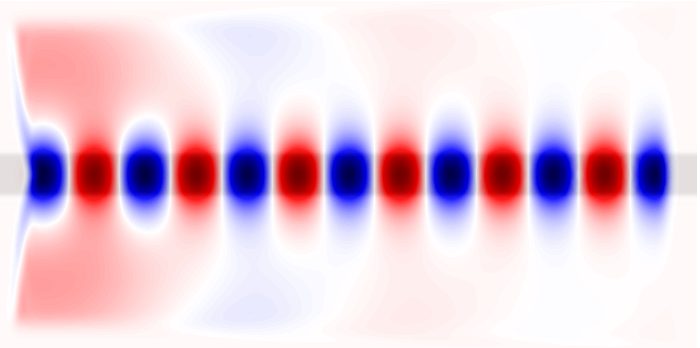
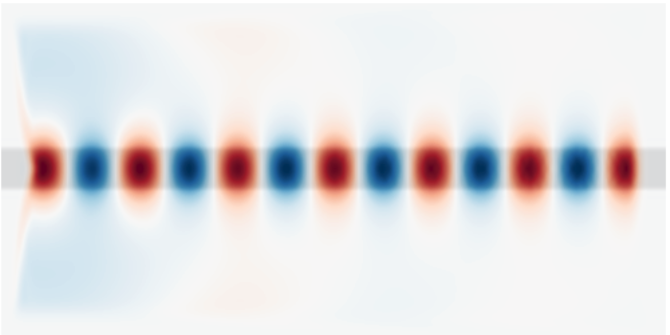
Replace h5utils with python libraries (#163)
* Animation with matplotlib

* Use RdBu colormap

* Update python tutorial image to RdBu

* Add vmin,vmax and RdBu colormap to animation

* Add get_array example

* Crop wvg-bent-ez-tslice

diff --git a/doc/docs/Python_Tutorials/Basics.md b/doc/docs/Python_Tutorials/Basics.md
@@ -108,9 +108,9 @@ We will first create an image of the dielectric function $\varepsilon$. This inv
 ```py
 eps_h5file = h5py.File('eps-000000.00.h5','r')
 eps_data = np.array(eps_h5file['eps'])
-plt.figure(dpi=100);
-plt.imshow(eps_data.transpose(), interpolation='spline36', cmap='binary');
-plt.axis('off');
+plt.figure(dpi=100)
+plt.imshow(eps_data.transpose(), interpolation='spline36', cmap='binary')
+plt.axis('off')
 plt.show()
 ```
 
@@ -119,10 +119,10 @@ Next we create an image of the scalar electric field $E_z$ by overlaying the die
 ```py
 ez_h5file = h5py.File('ez-000200.00.h5','r')
 ez_data = np.array(ez_h5file['ez'])
-plt.figure(dpi=100);
-plt.imshow(eps_data.transpose(), interpolation='spline36', cmap='binary');
-plt.imshow(ez_data.transpose(), interpolation='spline36', cmap='seismic', alpha=0.9);
-plt.axis('off');
+plt.figure(dpi=100)
+plt.imshow(eps_data.transpose(), interpolation='spline36', cmap='binary')
+plt.imshow(ez_data.transpose(), interpolation='spline36', cmap='RdBu', alpha=0.9)
+plt.axis('off')
 plt.show()
 ```
 
@@ -182,21 +182,18 @@ sim.run(mp.at_beginning(mp.output_epsilon),
 Here, `"ez"` determines the name of the output file, which will be called `ez.h5` if you are running interactively or will be prefixed with the name of the file name for a Python file (e.g. `tutorial-ez.h5` for `tutorial.py`). If we run `h5ls` on this file (a standard utility, included with HDF5, that lists the contents of the HDF5 file), we get:
 
 ```sh
-unix% h5ls ez.h5 
-ez                       Dataset {161, 161, 330/Inf}
+unix% h5ls ez.h5
+ez                       Dataset {161, 161, 330/Inf}
 ```
 
 That is, the file contains a 162×162×330 array, where the last dimension is time. This is rather a large file, 69MB; later, we'll see ways to reduce this size if we only want images. Now, we have a number of choices of how to output the fields. To output a single time slice, we can use the same `h5topng` command as before, but with an additional `-t` option to specify the time index: e.g. `h5topng -t 229` will output the last time slice, similar to before. Instead, let's create an animation of the fields as a function of time. First, we have to create images for *all* of the time slices:
 
 ```sh
-unix% h5topng -t 0:329 -R -Zc dkbluered -a yarg -A eps-000000.00.h5 ez.h5
+unix% h5topng -t 0:329 -R -Zc dkbluered -a yarg -A eps-000000.00.h5 ez.h5
 ```
 
 This is similar to the command before with two new options: `-t 0:329` outputs images for *all* time indices from 0 to 329, i.e. all of the times, and the the `-R` flag tells h5topng to use a consistent color scale for every image (instead of scaling each image independently). Then, we have to convert these images into an animation in some format. For this, we'll use the free [ImageMagick](https://en.wikipedia.org/wiki/ImageMagick) `convert` program (although there is other software that will do the trick as well).
 
-```sh
-unix% convert ez.t*.png ez.gif
-```
 Here, we are using an animated GIF format for the output. This results in the following animation:
 
 <center>![](../images/Tutorial-wvg-ez.gif)</center>
@@ -205,14 +202,29 @@ It is clear that the transmission around the bend is rather low for this frequen
 
 <center>![](../images/Tutorial-wvg-bent2-ez-000300.00.png)</center>
 
-Instead of doing an animation, another interesting possibility is to make an image from a $x \times t$ slice. Here is the $y=-3.5$ slice, which gives us an image of the fields in the first waveguide branch as a function of time.
+Instead of doing an animation, another interesting possibility is to make an image from a $x \times t$ slice. To get the $y=-3.5$ slice, which gives us an image of the fields in the first waveguide branch as a function of time, we can use `get_array` in a step function to collect a slice for each time step:
 
-```sh
-unix% h5topng -0y -35 -Zc dkbluered ez.h5
+```python
+vals = []
+
+def get_slice(sim):
+    center = mp.Vector3(0, -3.5)
+    size = mp.Vector3(16, 0)
+    vals.append(sim.get_array(center=center, size=size, component=mp.Ez))
+
+sim.run(
+    mp.at_beginning(mp.output_epsilon),
+    mp.at_every(0.6, get_slice),
+    until=200
+)
+
+plt.figure(dpi=100)
+plt.imshow(vals, interpolation='spline36', cmap='RdBu')
+plt.axis('off')
+plt.show()
 ```
-Here, the `-0y -35` specifies the $y=-3.5$ slice, where we have multiplied by 10 (our resolution) to get the pixel coordinate.
 
-<center>![](../images/Tutorial-wvg-bent-ez-tslice.png)</center>
+<center>![](../images/Python-Tutorial-wvg-bent-ez-tslice.png)</center>
 
 #### Output Tips and Tricks
 
